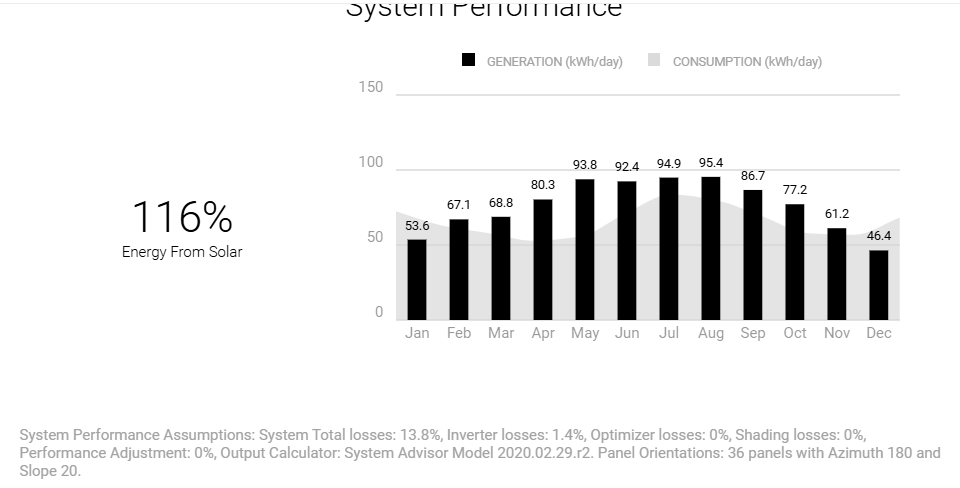
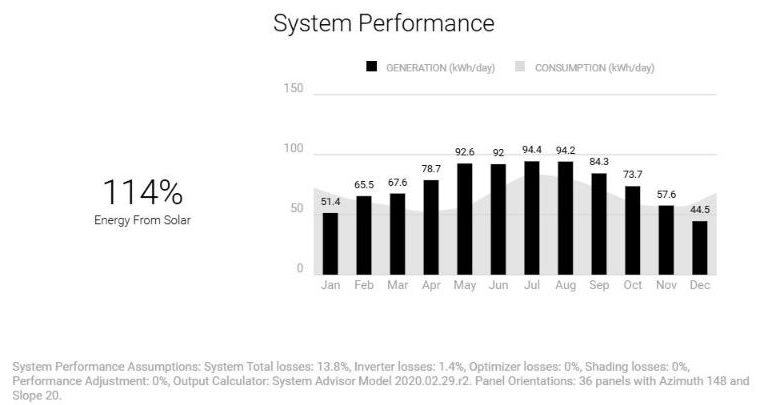
Rework the OpenSolar layout to fit the real roof
The 20 kW array was one stacked table square to north and running to
the roof edge. It is now six single-tilt rows of six at 20 degrees,
turned to 148 degrees to line up with the house, rows 2.8 m apart so
they do not shade each other at midday in December, kept about 0.9 m
from the parapets with a clear strip for the stair room and a walkway.
New screenshots and figures: 27,283 kWh a year, 1,378 kWh/kWp, 114%.

diff --git a/src/components/ToolArtifacts.tsx b/src/components/ToolArtifacts.tsx
@@ -495,13 +495,15 @@ export function buildToolArtifacts(shots: Record<string, MediaItem[]>): Record<s
             <>
               <p>
                 The same 20 kW house system as the Primavera P6 and MS Project programmes, drawn in OpenSolar on a
-                rooftop in Islamabad&apos;s F-11/2: 36 LONGi 550 W modules, 19.8 kWp, on tilted frames facing south at
-                20°, wired as two strings of 18 into one Growatt MID 20KTL3-X, a 20 kW three-phase inverter, so the
-                DC/AC ratio is 0.99.
+                rooftop in Islamabad&apos;s F-11/2: 36 LONGi 550 W modules, 19.8 kWp, on single-tilt frames at 20°,
+                wired as two strings of 18 into one Growatt MID 20KTL3-X, a 20 kW three-phase inverter, so the DC/AC
+                ratio is 0.99. The rows are turned to 148° to line up with the house rather than set due south, which
+                lets six rows of six fit the roof with proper spacing and clear walkways.
               </p>
               <p>
-                OpenSolar runs the layout through NREL&apos;s System Advisor Model and gives 27,930 kWh a year, or 1,410
-                kWh per kWp, at 13.8% system losses. Against a household using 24,000 kWh a year that covers 116%. It
+                OpenSolar runs the layout through NREL&apos;s System Advisor Model and gives 27,283 kWh a year, or 1,378
+                kWh per kWp, at 13.8% system losses, about 2% less than the same array facing due south would give.
+                Against a household using 24,000 kWh a year that covers 114%. It
                 then writes the customer proposal: the system, the monthly production and the local NEPRA tariff. It is
                 a sample design on flat satellite imagery, so shading is not modelled, and the pricing pages are left
                 out.
@@ -510,13 +512,13 @@ export function buildToolArtifacts(shots: Record<string, MediaItem[]>): Record<s
           }
           notes={{
             "Roof layout":
-              "36 modules on the flat roof, 6 rows of 6 on single-tilt frames at 20° facing 180°, covering 6.8 m by 11.84 m",
+              "36 modules on the flat roof in 6 rows of 6, on single-tilt frames at 20° turned to 148° to follow the house. The rows sit 2.8 m apart so they do not shade each other at midday in December, the array keeps about 0.9 m from the parapets at each end and at least 0.6 m along the south west side, and the north east strip stays clear for the stair room, shown in red, and a walkway",
             "Inverter and strings":
-              "One Growatt MID 20KTL3-X and its two MPPT inputs, with OpenSolar's automatic stringing: 18 modules per string, drawn across the array",
+              "One Growatt MID 20KTL3-X and its two MPPT inputs. The three north west rows make one string of 18 and the three south east rows the other, so each string stays on its own block of the roof",
             "Customer proposal":
-              "What the client sees: 36 x 550 W LONGi modules, 19.8 kW, one 20 kW Growatt inverter, 27,930 kWh a year, with the panel and inverter warranties",
+              "What the client sees: 36 x 550 W LONGi modules, 19.8 kW, one 20 kW Growatt inverter, 27,283 kWh a year, with the panel and inverter warranties",
             "System performance":
-              "Production month by month against the household's use, 116% of a 24,000 kWh year, modelled with the System Advisor Model at 13.8% losses",
+              "Production month by month against the household's use, 114% of a 24,000 kWh year, modelled with the System Advisor Model at 13.8% losses",
           }}
         />
       ),
